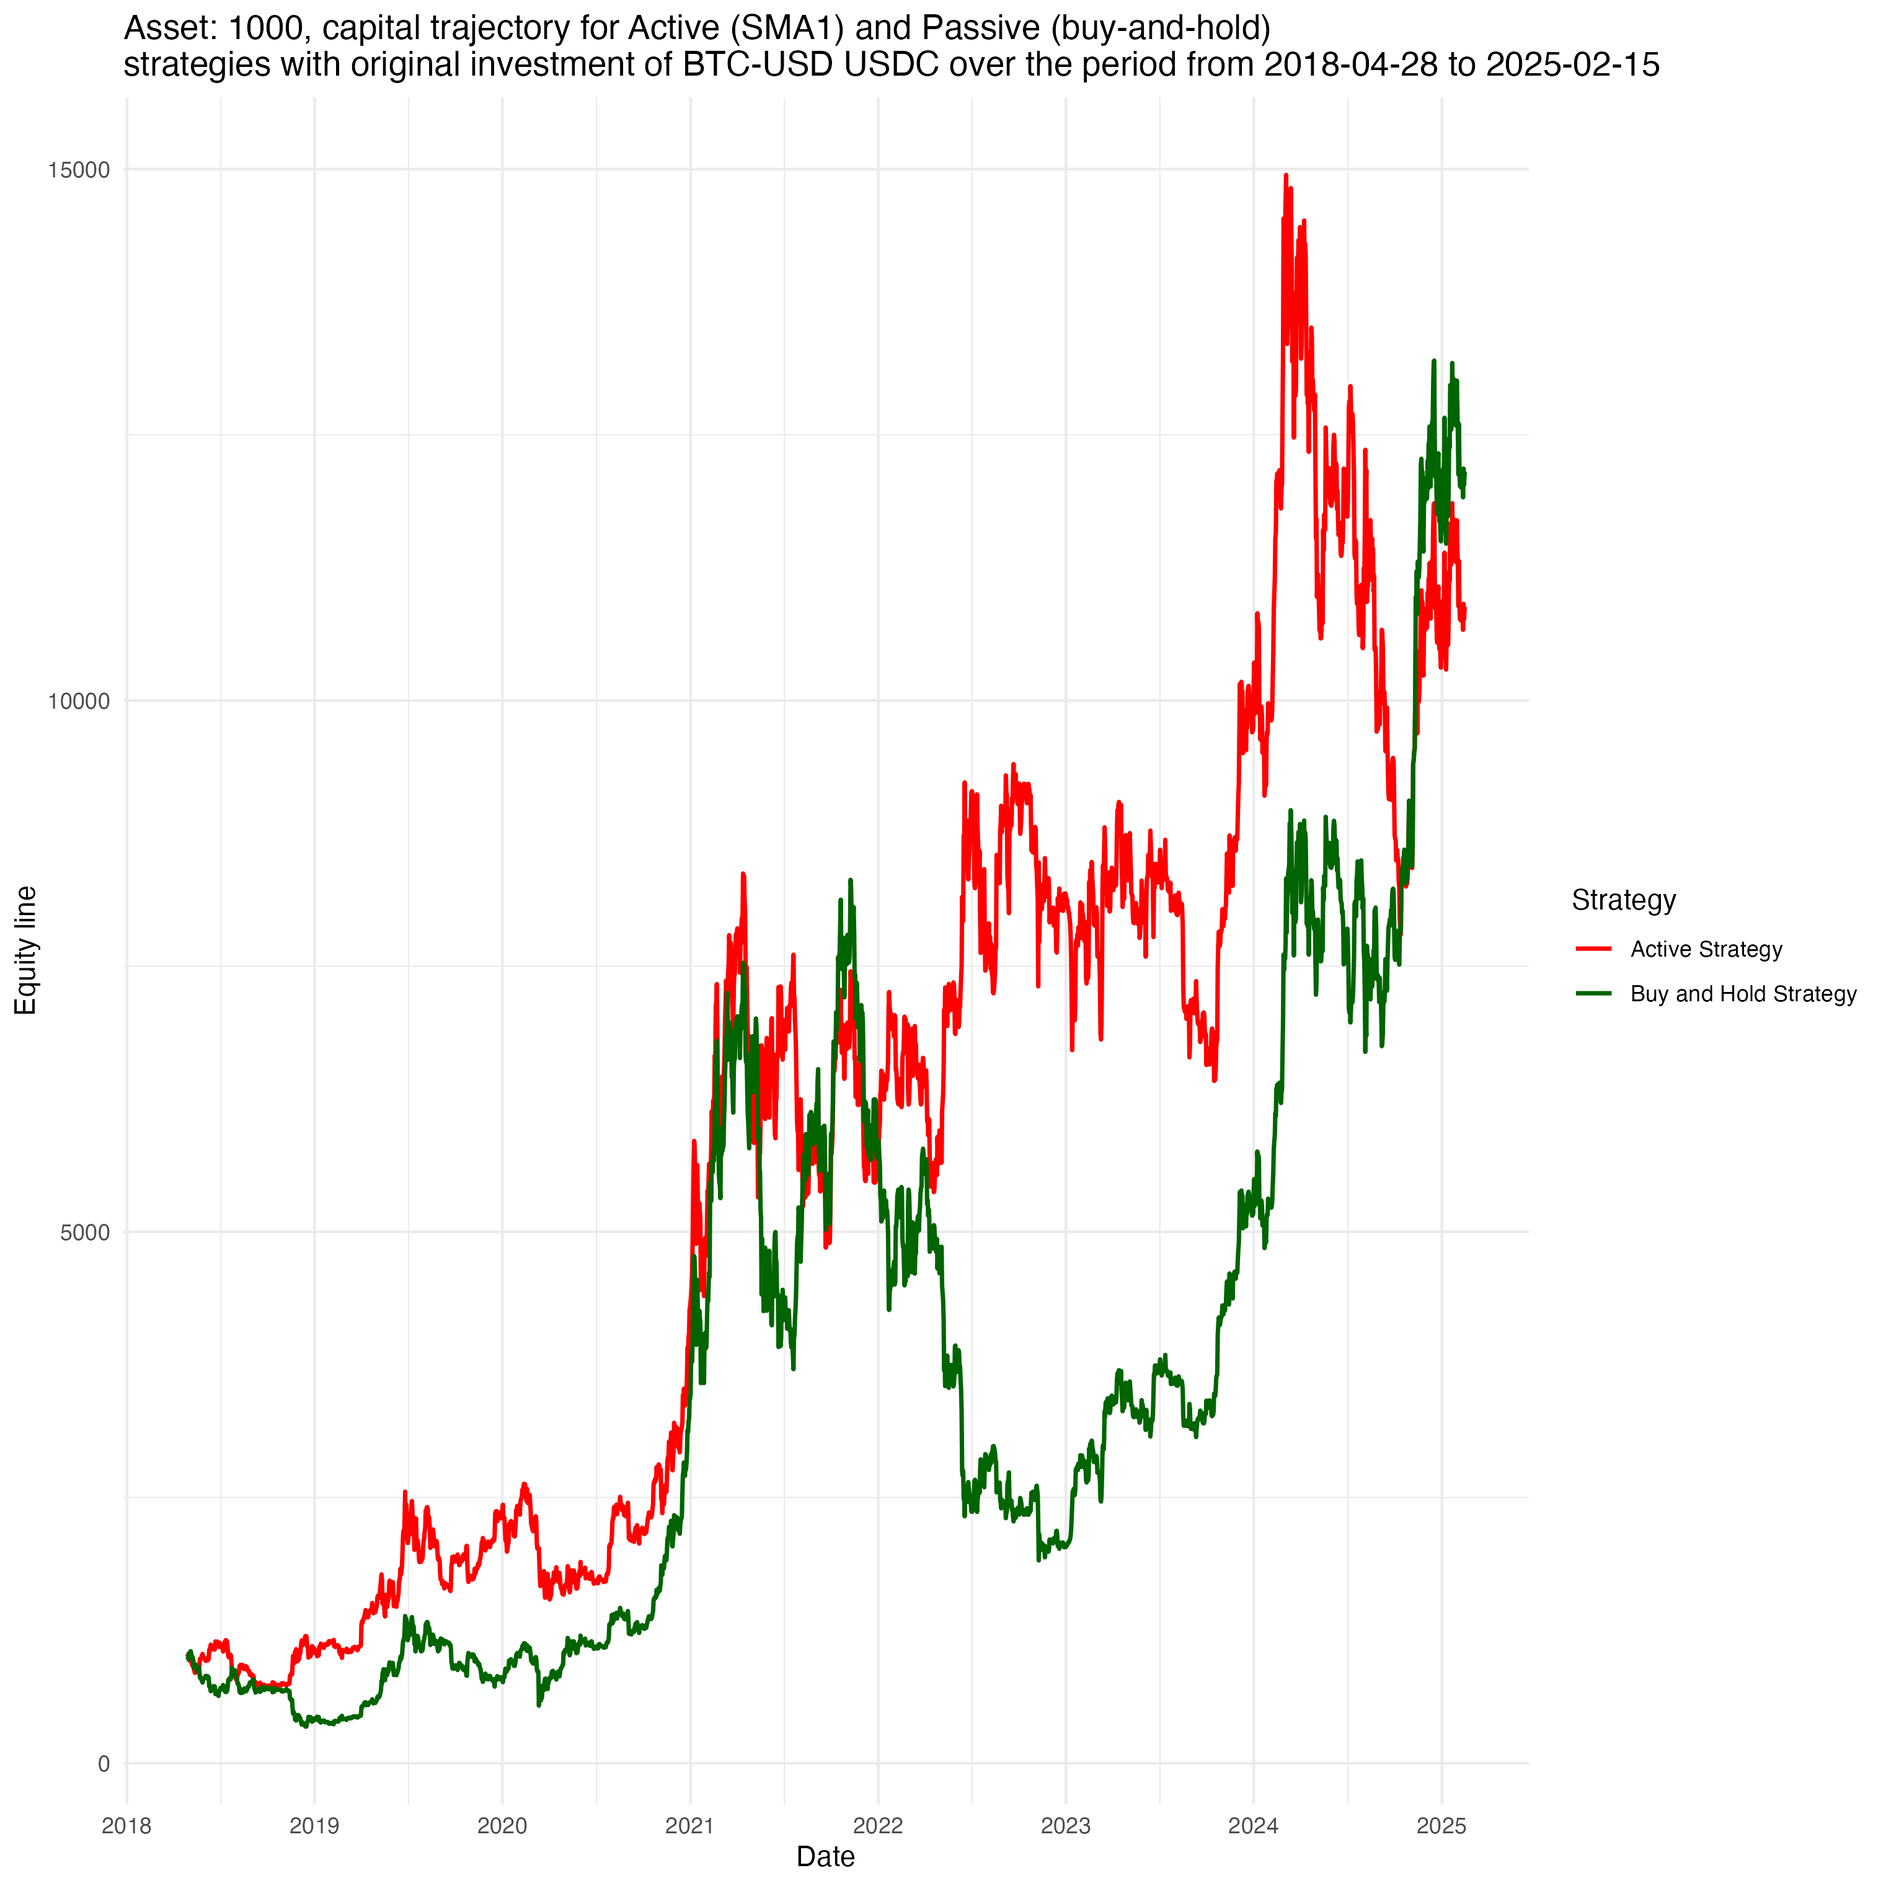
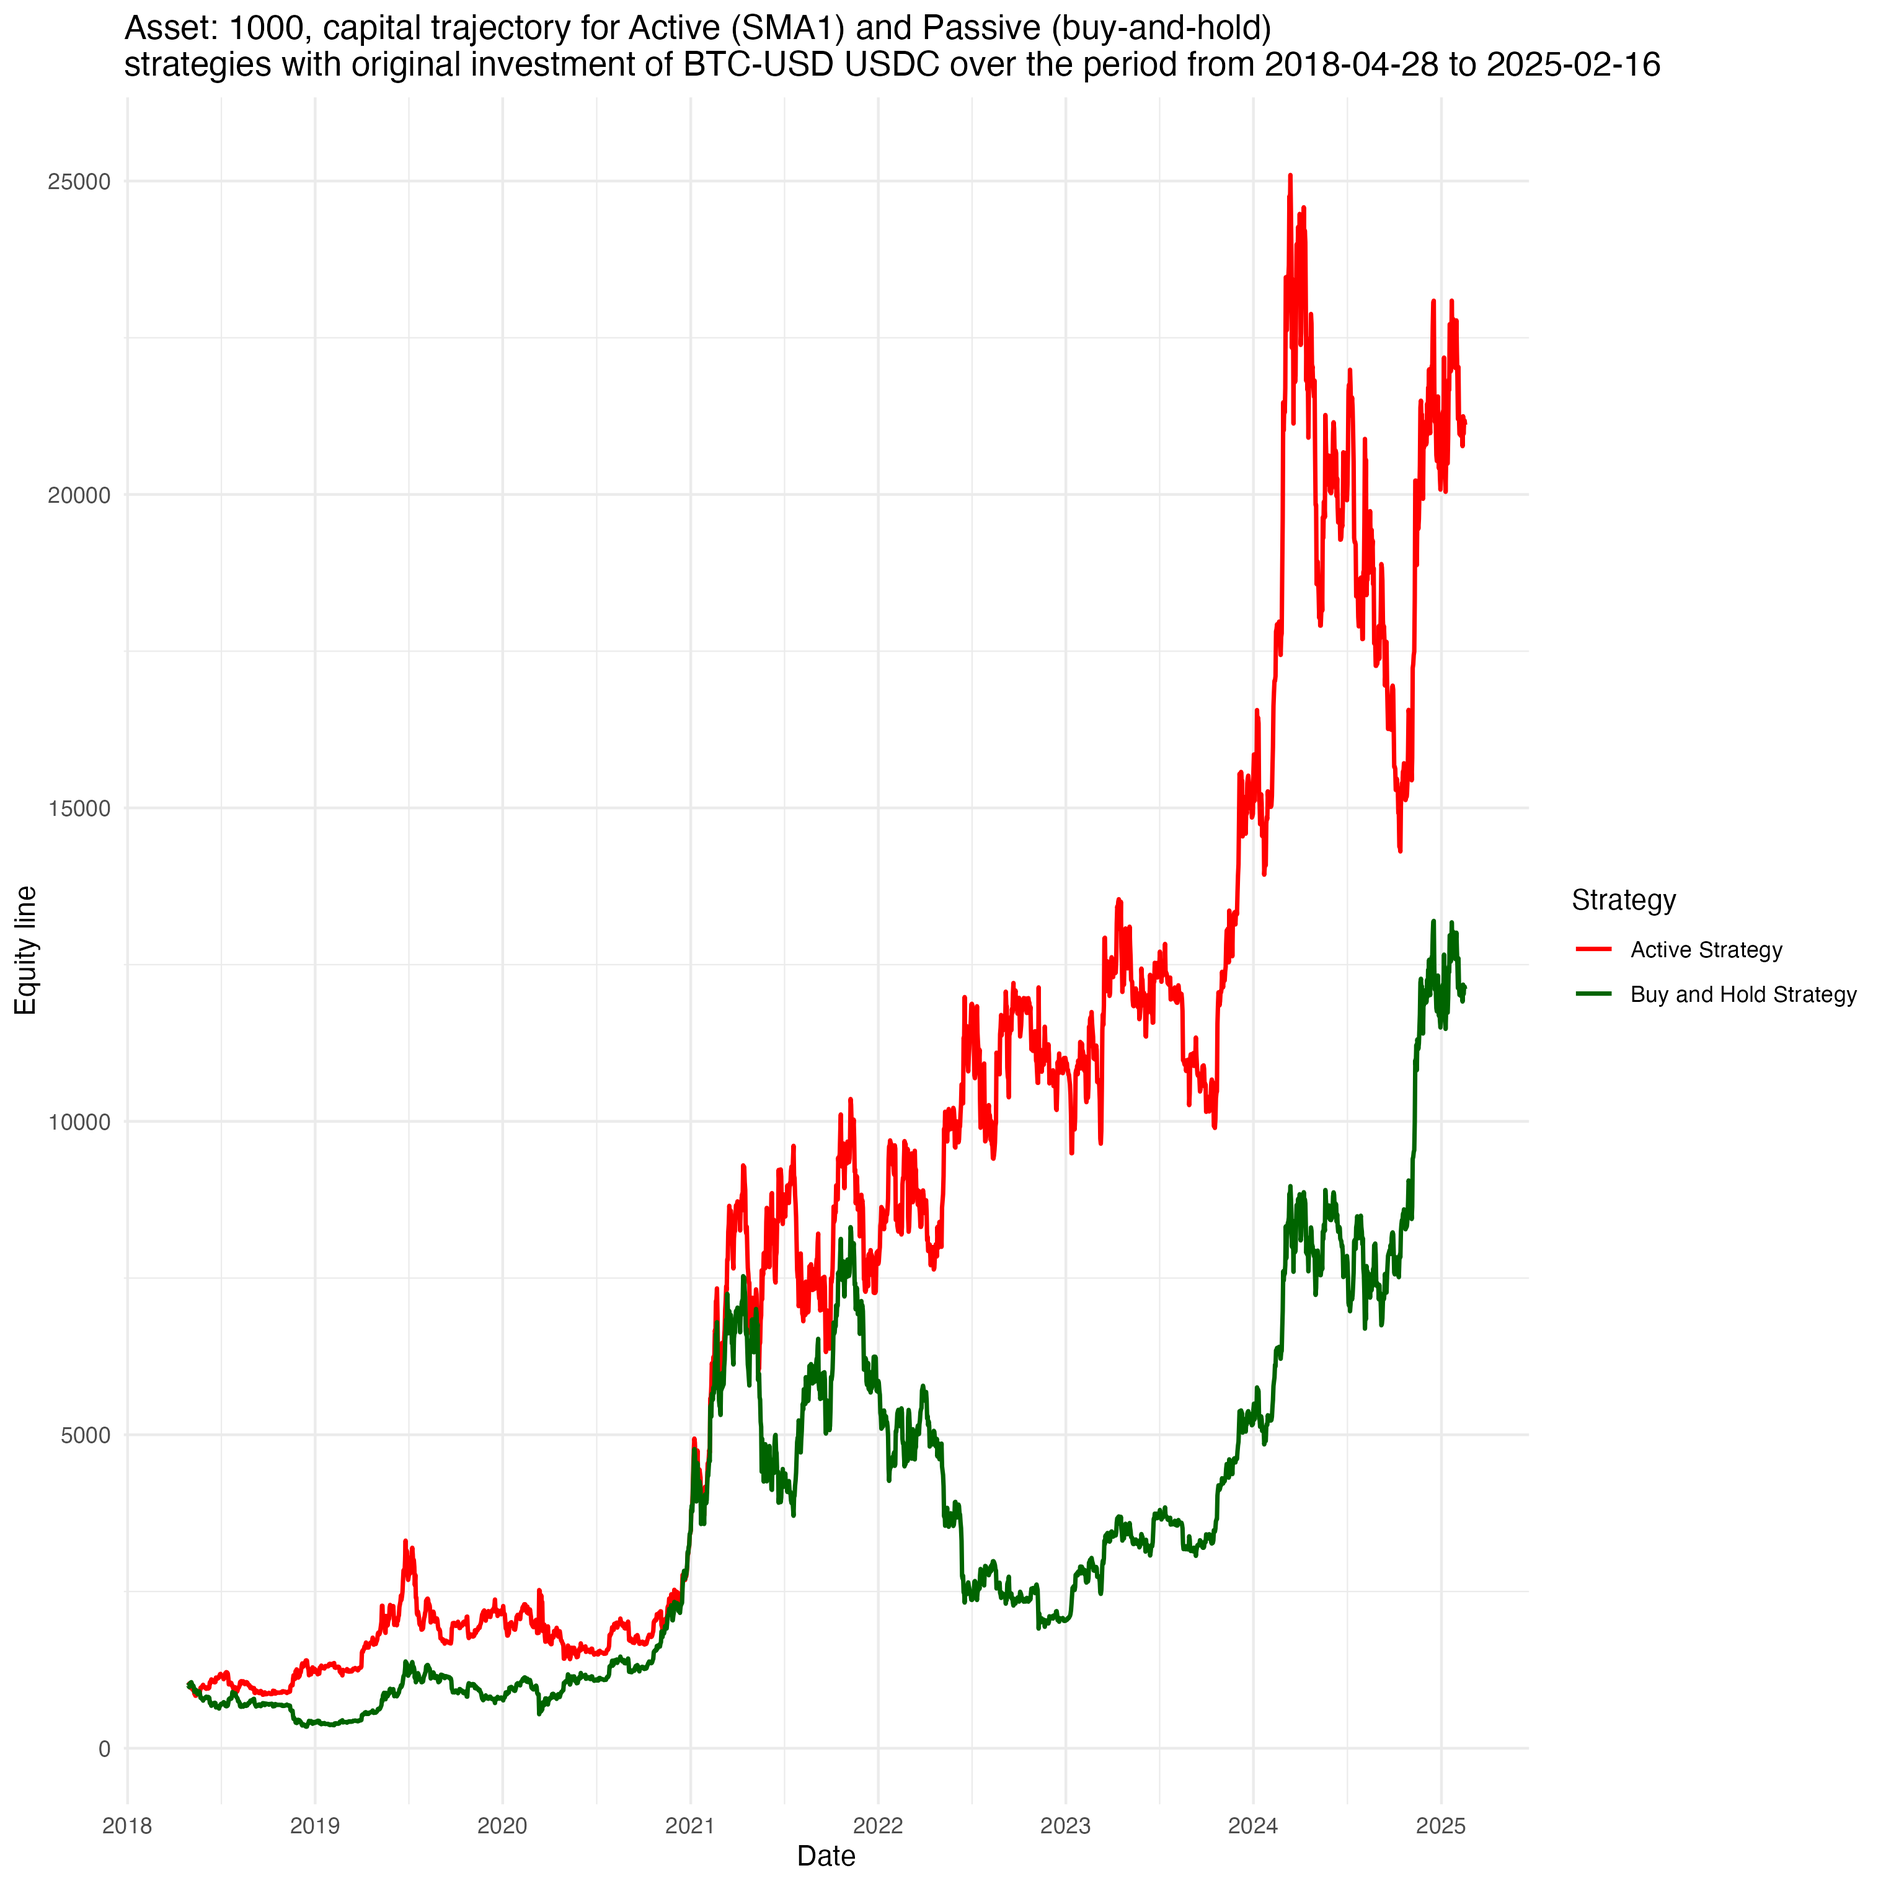
Update of apply_risk_management(): number of positions recalculation for trading day after reversal due event; update of Unrealized and Realized PnL type column to handle case post reversal; deploying the updates to shiny remote server; update of README.md description

diff --git a/README.md b/README.md
@@ -134,48 +134,48 @@ Since the start of the investment, the active strategy's portfolio value remaine
 
 **Strategy trading profile:**  
 
-| Metric                          | V1 (in-sample) | V2 (in-sample) | V1 (out-sample) | V2 (out-sample) | Units |
-|---------------------------------|----------------|----------------|-----------------|-----------------|-------|
-| ticker                          | BTC-USD        | BTC-USD        | BTC-USD         | BTC-USD         |       |
-| from                            | 2018-04-28     | 2018-04-28     | 2024-04-27      | 2024-04-27      |       |
-| to                              | 2024-01-01     | 2024-01-01     | 2025-02-15      | 2025-02-15      |       |
-| data_type                       | in_sample      | in_sample      | out_of_sample   | out_of_sample   |       |
-| leverage                        | 1              | 1              | 1               | 1               |       |
-| max_risk                        | 0.1            | 0.1            | 0.1             | 0.1             |       |
-| reward_ratio                    | 3              | 3              | 3               | 3               |       |
-| capital                         | 1000           | 1000           | 1000            | 1000            | USD   |
-| Strategy                        | Active         | Passive        | Active          | Passive         |       |
-| Gross Profit                    | 9176           | 4404           | -14             | 542             | USD   |
-| Annualized Profit               | 32.56          | 22.75          | -1.22           | 44.94           | %     |
-| Number of Trades Per Year       | 13             | 0              | 9               | 0               |       |
-| Percentage of Winning Trades    | 52.75          | NotApplicable  | 33.33           | NotApplicable   | %     |
-| Average Win                     | 98             | 65             | 19              | 23              | USD   |
-| Length of Average Win           | 29             | 18             | 30              | 26              | days  |
-| Largest Win                     | 1166           | 866            | 82              | 124             | USD   |
-| Length of Largest Win           | 66             | 36             | 52              | 31              | days  |
-| Average Loss                    | -93            | -64            | -17             | -20             | USD   |
-| Length of Average Loss          | 16             | 29             | 10              | 10              | days  |
-| Largest Loss                    | -924           | -887           | -112            | -96             | USD   |
-| Length of Largest Loss          | 17             | 17             | 21              | 95              | days  |
-| Average Winning Run             | 1.97           | 1.91           | 1.83            | 1.99            | days  |
-| Length of Time in Avg Win Run   | 2              | 2              | 2               | 2               | days  |
-| Largest Winning Run             | 12             | 10             | 7               | 7               | days  |
-| Length of Time in Largest Win Run | 12          | 10             | 7               | 7               | days  |
-| Average Losing Run              | 1              | 1              | 1               | 1               | days  |
-| Length of Time in Avg Lose Run  | 2              | 2              | 2               | 2               | days  |
-| Largest Losing Run              | 12             | 10             | 7               | 7               | days  |
-| Length of Time in Largest Lose Run | 12         | 10             | 7               | 7               | days  |
-| Max Drawdown                    | -42.05        | -77.05         | -39.81          | -24.84          | %     |
-| Length of Max Drawdown          | 161            | 366            | 98              | 77              | days  |
-| Start Date Max Drawdown         | 2021-04-13     | 2021-11-08     | 2024-07-07      | 2024-05-20      | Date  |
-| End Date Max Drawdown           | 2021-09-21     | 2022-11-09     | 2024-10-13      | 2024-08-05      | Date  |
-| Max Run-Up                      | 1342.71        | 2318.52        | 52.03           | 97.20           | %     |
-| Length of Max Run-Up            | 1928           | 1059           | 100             | 134             | days  |
-| Start Date Max Run-Up           | 2018-09-21     | 2018-12-15     | 2024-10-13      | 2024-08-05      | Date  |
-| End Date Max Run-Up             | 2024-01-01     | 2021-11-08     | 2025-01-21      | 2024-12-17      | Date  |
+| Metric                                   | In-Sample Active | In-Sample Passive | Out-of-Sample Active | Out-of-Sample Passive | Units |
+|------------------------------------------|------------------|-------------------|----------------------|-----------------------|-------|
+| ticker                                   | BTC-USD          | BTC-USD           | BTC-USD              | BTC-USD               |       |
+| from                                     | 2018-04-28       | 2018-04-28        | 2024-04-27           | 2024-04-27            | Date  |
+| to                                       | 2024-01-01       | 2024-01-01        | 2025-02-16           | 2025-02-16            | Date  |
+| data_type                                | in_sample        | in_sample         | out_of_sample        | out_of_sample         |       |
+| leverage                                 | 1                | 1                 | 1                    | 1                     |       |
+| max_risk                                 | 0.1              | 0.1               | 0.1                  | 0.1                   |       |
+| reward_ratio                             | 3                | 3                 | 3                    | 3                     |       |
+| capital                                  | 1000             | 1000              | 1000                 | 1000                  | USD   |
+| Strategy                                 | Active           | Passive           | Active               | Passive               |       |
+| Gross Profit                             | 14575            | 4404              | 130                  | 536                   | USD   |
+| Annualized Profit                        | 39.60            | 22.75             | 11.02                | 44.30                 | %     |
+| Number of Trades Per Year                | 14               | 0                 | 9                    | 0                     |       |
+| Percentage of Winning Trades             | 49.47            | NotApplicable     | 38.89                | NotApplicable         | %     |
+| Average Win                              | 123              | 65                | 20                   | 23                    | USD   |
+| Length of Average Win                    | 27               | 20                | 26                   | 26                    | days  |
+| Largest Win                              | 1523             | 866               | 101                  | 124                   | USD   |
+| Length of Largest Win                    | 3                | 36                | 31                   | 31                    | days  |
+| Average Loss                             | -116             | -64               | -18                  | -20                   | USD   |
+| Length of Average Loss                   | 17               | 25                | 11                   | 10                    | days  |
+| Largest Loss                             | -1140            | -887              | -115                 | -96                   | USD   |
+| Length of Largest Loss                   | 3                | 17                | 21                   | 96                    | days  |
+| Average Winning Run                      | 1.94             | 1.91              | 1.86                 | 1.99                  | days  |
+| Length of Time in Average Winning Run    | 2                | 2                 | 2                    | 2                     | days  |
+| Largest Winning Run                      | 12               | 10                | 8                    | 7                     | days  |
+| Length of Time in Largest Winning Run    | 12               | 10                | 8                    | 7                     | days  |
+| Average Losing Run                       | 1                | 1                 | 1                    | 1                     | days  |
+| Length of Time in Average Losing Run     | 2                | 2                 | 2                    | 2                     | days  |
+| Largest Losing Run                       | 12               | 10                | 8                    | 7                     | days  |
+| Length of Time in Largest Losing Run     | 12               | 10                | 8                    | 7                     | days  |
+| Max Drawdown                             | -57.10           | -77.05            | -34.95               | -24.84                | %     |
+| Length of Max Drawdown                   | 320              | 366               | 98                   | 77                    | days  |
+| Start Date Max Drawdown                  | 2019-06-26       | 2021-11-08        | 2024-07-07           | 2024-05-20            | Date  |
+| End Date Max Drawdown                    | 2020-05-11       | 2022-11-09        | 2024-10-13           | 2024-08-05            | Date  |
+| Max Run-Up                               | 1760.81          | 2318.52           | 61.42                | 97.20                 | %     |
+| Length of Max Run-Up                     | 2059             | 1059              | 100                  | 134                   | days  |
+| Start Date Max Run-Up                    | 2018-05-13       | 2018-12-15        | 2024-10-13           | 2024-08-05            | Date  |
+| End Date Max Run-Up                      | 2024-01-01       | 2021-11-08        | 2025-01-21           | 2024-12-17            | Date  |
 
 While the active strategy performs better in-sample in terms of return and risk, its performance declines in the out-of-sample period. 
-The framework allows users to select different assets, periods (including custom splits for further periods), strategies, parameters, risk management applications, and leverage, providing a comprehensive strategy profile view as if it had been consistently applied. For instance, once the strategy is deployed, you may not be aware of the current winning or losing streak, but knowing this could give you valuable insights into the strategy’s performance and overall dynamics.
+The framework allows users to select different assets, periods (including custom splits for further periods), strategies, parameters, risk management applications, and leverage, providing a comprehensive strategy profile view as if it had been consistently applied. For instance, once the strategy is deployed, you may not be aware of the current winning or losing streak, but knowing this could give you valuable insights into the strategy’s performance.
 
 **Backtesting results:**
 
@@ -185,20 +185,20 @@ In-sample data is used in order to identify good candidates, and check their per
 Here SMA1 with 116 days could be considered as such.
 The engine is flexible, and the same approach can be applied to any strategy and asset from the list provided above.
 
-### Parameters used in the backtest:
-- **Symbols**: BTC-USD
-- **Window Sizes**: 10, 12, 16, 20, 24, 31, 38, 48, 60, 75, 93, 116, 146, 182
-- **Moving Average Types**: SMA, EMA
-- **Data Type**: in_sample
-- **Split**: FALSE
-- **Cut Date**: 2024-01-01
-- **From Date**: 2018-01-01
-- **To Date**: 2024-01-01
-- **Slicing Years**: 4
-- **Risk Management**: Applied
-- **Flat After Event**: TRUE, FALSE
-- **Max Risks**: 0.1, 0.2, 0.3
-- **Reward Ratios**: 2, 3
-- **Leverages**: 1, 2
+### Parameters Used in the Backtest:
+- **Symbols**: BTC-USD  
+- **Window Sizes**: 10, 12, 16, 20, 24, 31, 38, 48, 60, 75, 93, 116, 146, 182  
+- **Moving Average Types**: SMA, EMA  
+- **Data Type**: in_sample  
+- **Split**: FALSE (whether the data is split into sub-periods for a more granular view under different market regimes)  
+- **Cut Date**: 2024-01-01  
+- **From Date**: 2018-01-01  
+- **To Date**: 2025-02-16  
+- **Slicing Years**: 1 (if split is TRUE, defines the slicing granularity)  
+- **Risk Management**: Applied  
+- **Flat After Event**: TRUE, FALSE (stay flat after a stop loss or profit take event until a new signal emerges OR re-enter the position)  
+- **Max Risks**: 0.1, 0.2, 0.3  
+- **Reward Ratios**: 2, 3  
+- **Leverages**: 1, 2  
 
 ![Backtest results SMA1 strategy using different strategy parameters for BTC-USD](temp/sma1_res_sma1_backtest.png)
